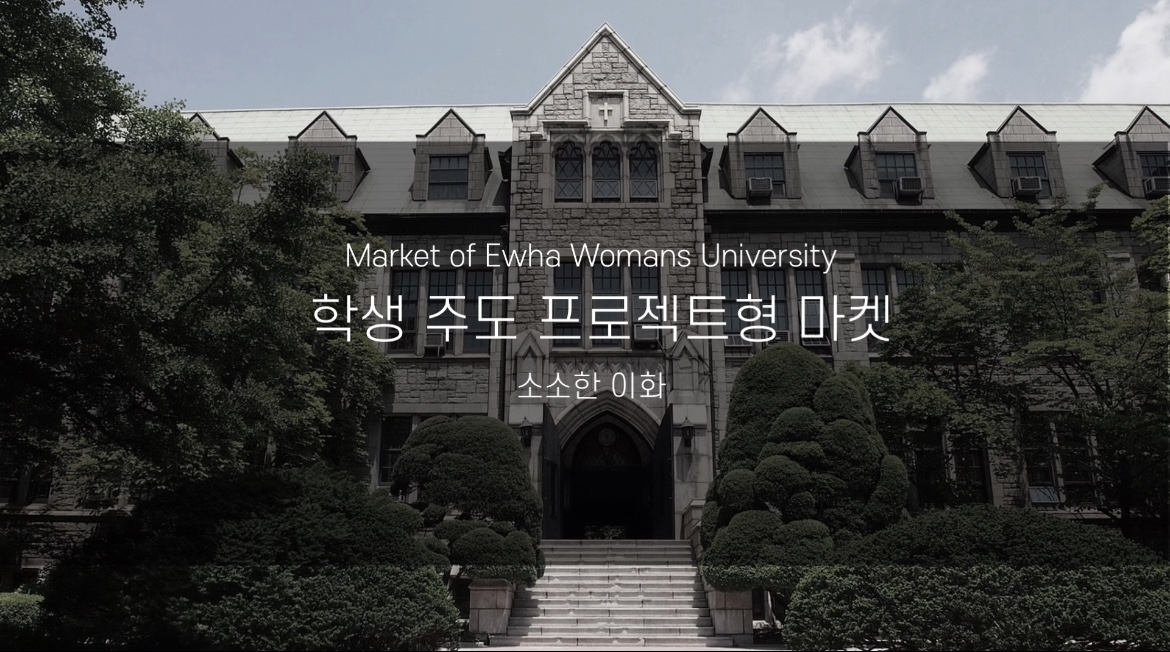
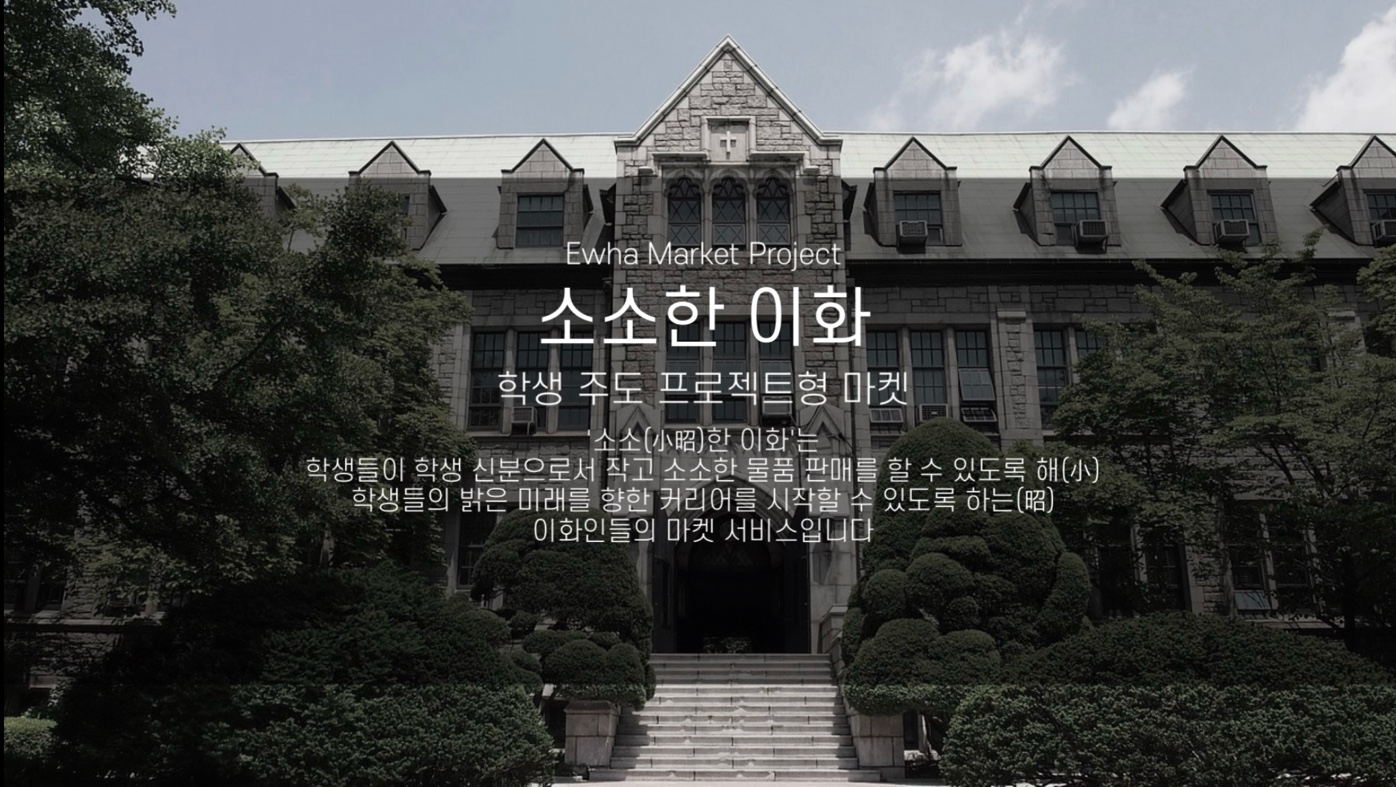
첫화면수정

diff --git a/static/style.css b/static/style.css
@@ -798,11 +798,17 @@ input[type="number"]::-webkit-outer-spin-button {
 }
 
 .page-title {
-    font-size: 24px;
-    font-weight: bold;
-    margin-top: 20px;
-    margin-bottom: 20px;
-    text-align: center;
+    position: relative;
+    width: 100%;
+    height: 100vh; 
+    overflow: hidden; 
+}
+
+.page-title .main-image {
+    width: 100%; 
+    height: 100%; 
+    object-fit: cover; 
+    display: block; 
 }
 
 .products-grid {
@@ -2651,7 +2657,7 @@ swiper-container::part(pagination-bullet-active) {
 
 .auth-buttons {
     position: absolute; 
-    bottom: 25%; 
+    bottom: 18%; /* 여기 값을 줄이면 버튼이 아래로 이동 */
     left: 50%; 
     transform: translateX(-50%); 
     display: flex;
@@ -2679,6 +2685,7 @@ swiper-container::part(pagination-bullet-active) {
     background-color: #A4C1AE; 
     transform: translateY(-2px); 
 }
+
 
 /*241211*/
 /* 슬라이더 컨테이너 */
